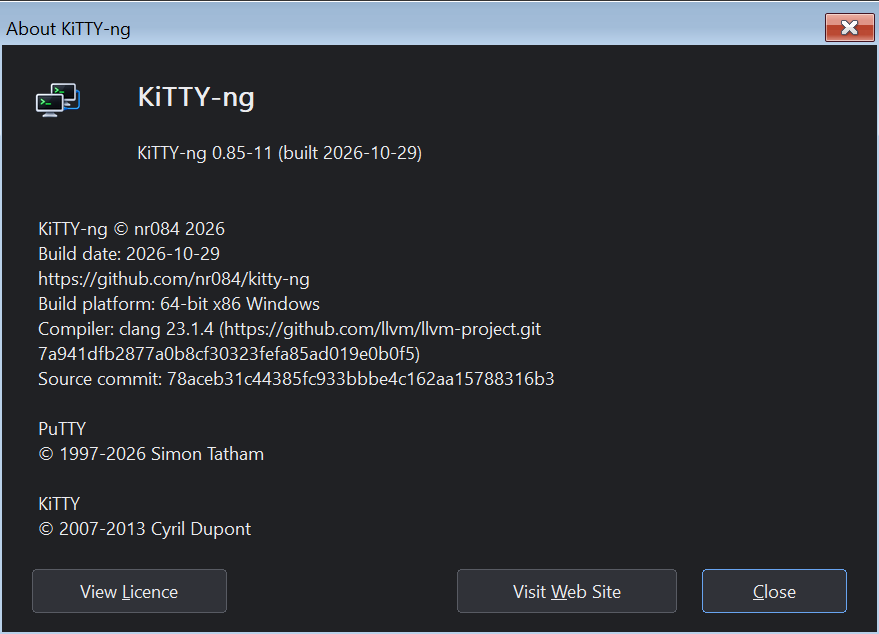
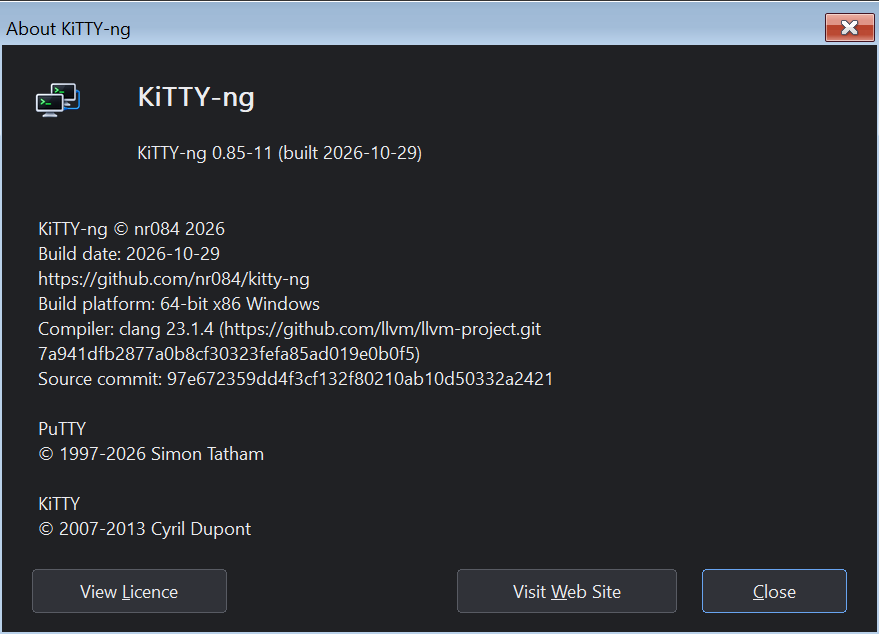
Record completed Windows Linux validation and Mac handoff

Changed region(s): [[0.1843, 0.5694, 0.6451, 0.6293]]

diff --git a/docs/validation.md b/docs/validation.md
@@ -1,6 +1,6 @@
 # Проверки Windows/Linux 0.85-11
 
-Windows: локальная сборка LLVM-MinGW 20261020 / Clang 23.1.4, официальный stable проверен перед сборкой. x64/x86 проверяются нативно; ARM64 — структура и версия всех шести PE-файлов. Новый нативный запуск Windows ARM64 не заявляется.
+Windows из `97e672359dd4f3cf132f80210ab10d50332a2421`: локальная сборка LLVM-MinGW 20261020 / Clang 23.1.4, официальный stable проверен перед сборкой. x64/x86 проверены нативно; ARM64 — структура и версия всех шести PE-файлов. Новый нативный запуск Windows ARM64 не заявляется.
 
 Изменённые сценарии охватывают реальный клавиатурный ввод RU/EN, переключение вкладок и Alt+Tab, значок окна, повторный фокус флажков без повреждения подписи, отключение и явный перезапуск, несохранённое подключение с защищённым ключом. WinSCP проверен на локальном SSH-fixture с разблокированным через Kageant ключом: это проверка аутентификации, не передачи SFTP в WinSCP. Нативные проверки встроенных передач файлов учитываются отдельно.
 

diff --git a/docs/releases/0.85-11-macos-handoff.md b/docs/releases/0.85-11-macos-handoff.md
@@ -2,7 +2,7 @@
 
 Продолжи работу в общей папке `SynologyDrive/Проекты/KiTTY-NG`. Прочитай AGENTS.md и этот документ. Windows/Linux выпускает Windows-чат, macOS собирается только на настоящем Mac. Номер **0.85-11** повторно не повышать.
 
-Исходная ревизия Windows/Linux-правок: `78aceb31c44385fc933bbbe4c162aa15788316b3` (точный коммит Windows указан в манифесте опубликованного выпуска; Linux имеет отдельное происхождение). Получи актуальный origin/main, сохрани чужие изменения. Общая версия обязательна, совпадение коммитов платформ не требуется.
+Исходная ревизия Windows/Linux-правок: `97e672359dd4f3cf132f80210ab10d50332a2421` (точный коммит Windows указан в манифесте опубликованного выпуска; Linux имеет отдельное происхождение). Получи актуальный origin/main, сохрани чужие изменения. Общая версия обязательна, совпадение коммитов платформ не требуется.
 
 ## Адаптация
 
